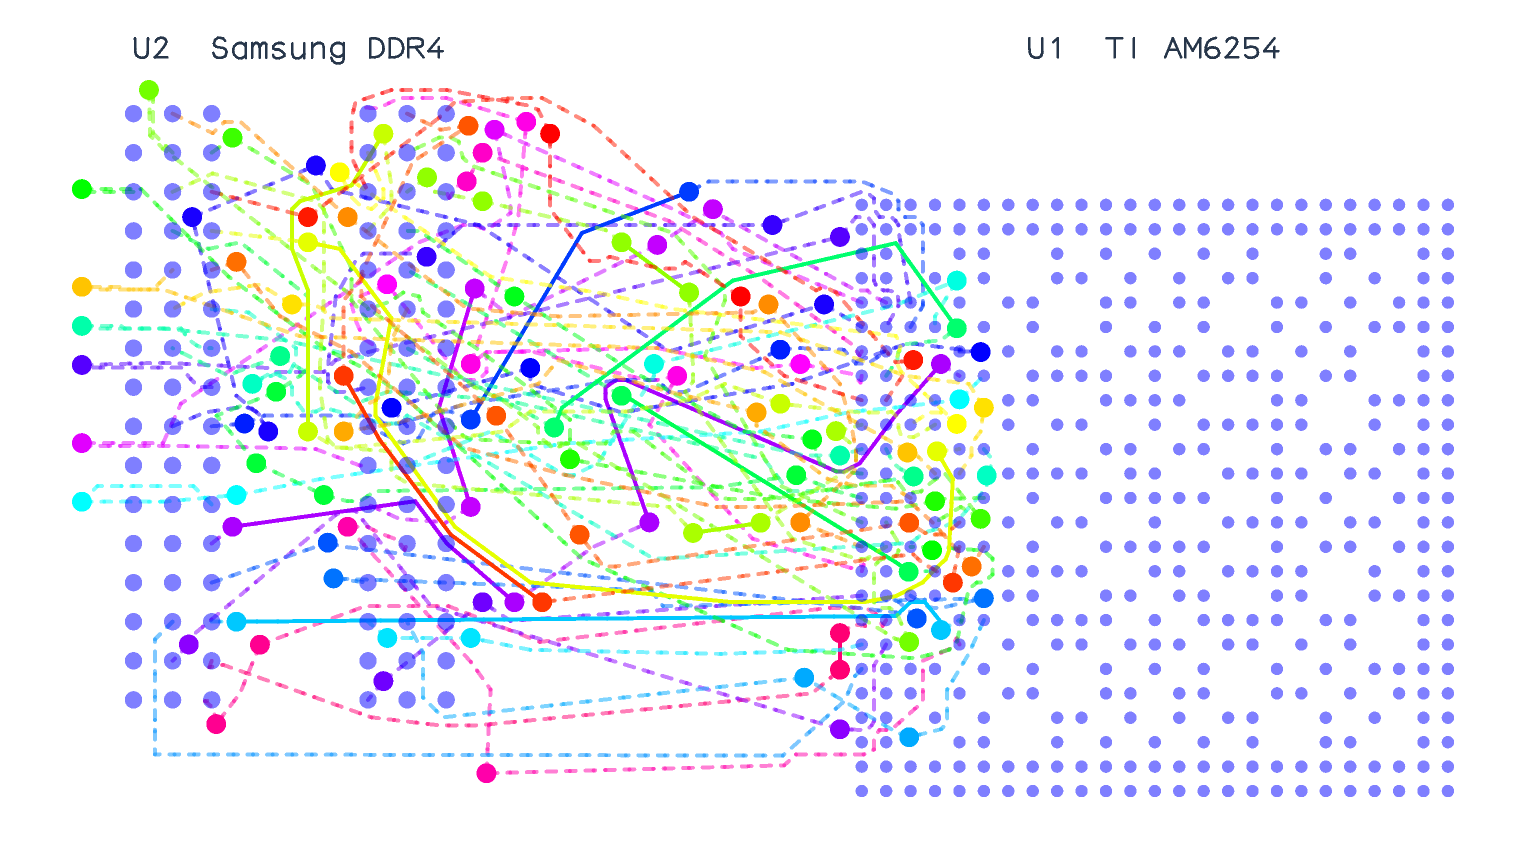
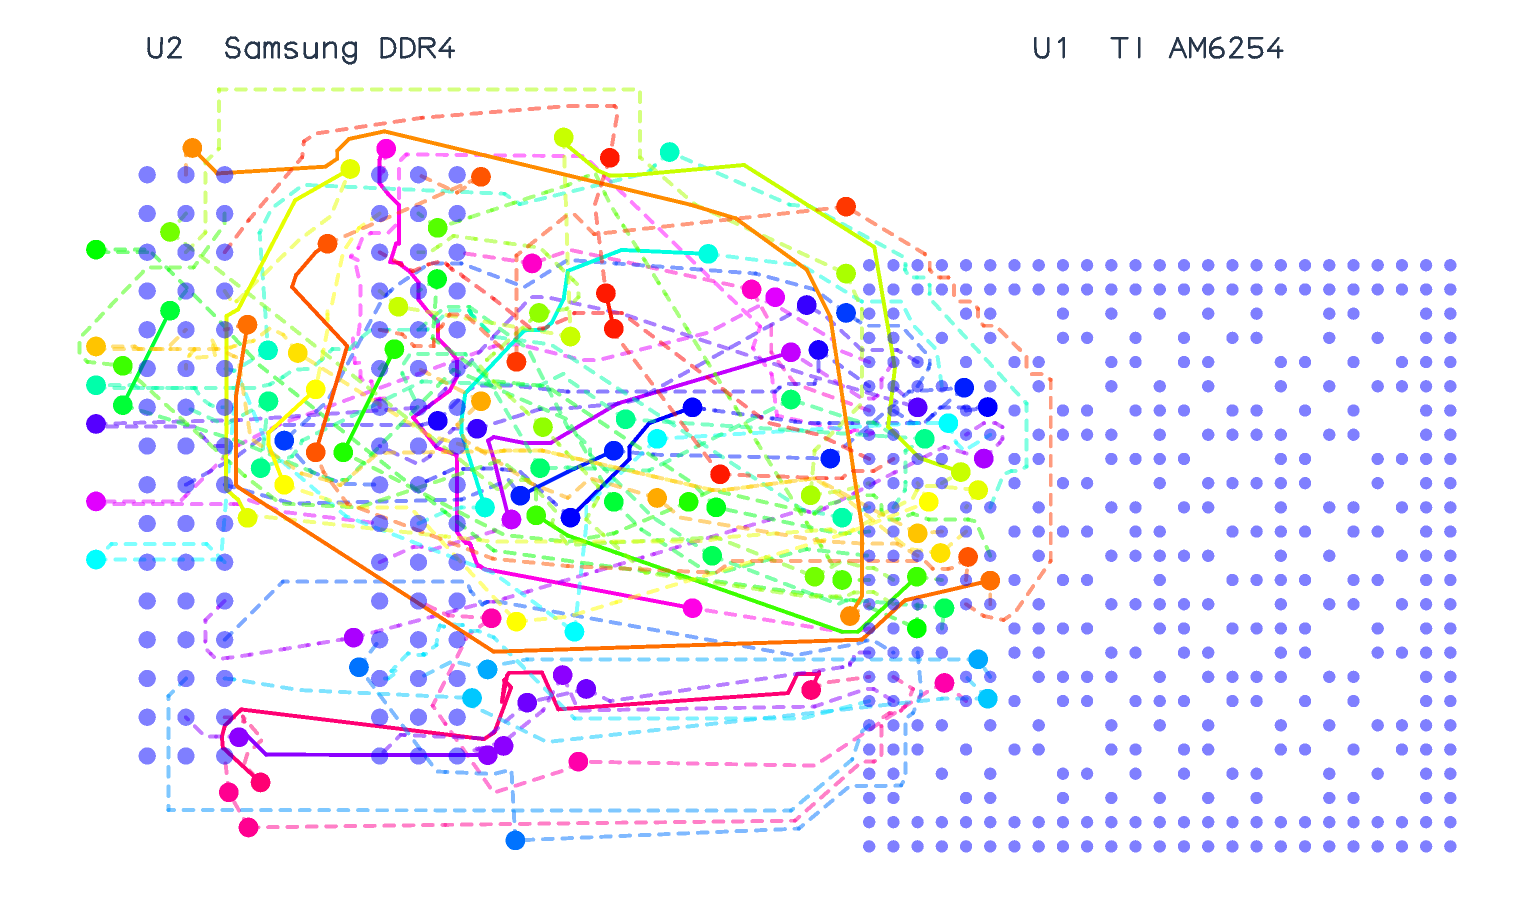
Validate published Pipeline 9 repairs and refresh BeaglePlay snapshots

Changed region(s): [[0.0312, 0.0305, 0.9688, 0.9449], [0.7188, 0.0305, 0.8438, 0.0914], [0.6562, 0.0305, 0.6875, 0.061]]

diff --git a/lib/autorouter-pipelines/AutoroutingPipeline9_PreloadedTraceGraph/Pipeline9JointDrcRepairSolver.ts b/lib/autorouter-pipelines/AutoroutingPipeline9_PreloadedTraceGraph/Pipeline9JointDrcRepairSolver.ts
@@ -45,6 +45,7 @@ import {
   convertPreloadedTraceToHdRoutes,
 } from "./convertPreloadedTraceToHdRoutes"
 import { filterPipeline9DrcErrorsAgainstBaseline } from "./filterPipeline9DrcErrorsAgainstBaseline"
+import { isPipeline9DrcPriorityImprovement } from "./isPipeline9DrcPriorityImprovement"
 import { getPipeline9ClearanceMarginErrors } from "./getPipeline9ClearanceMarginErrors"
 import { getPipeline9PreloadedTraceIdsInInitialDrcRegions } from "./getPipeline9PreloadedTraceIdsInInitialDrcRegions"
 import { getPipeline9PreloadedViaPairTraceGroups } from "./getPipeline9PreloadedViaPairTraceGroups"
@@ -706,6 +707,7 @@ export class Pipeline9JointDrcRepairSolver extends BaseSolver {
   private initialBoundedRegionalRepairStartedAt?: number
   private initialBoundedRepairCandidate?: HighDensityRoute[]
   private readonly prioritizeConflictedRoutes: boolean
+  private readonly outputReferenceDrcEvaluator?: DrcEvaluator
   readonly pipelineDef = [
     {
       solverName: "clearanceProjectionSolver",
@@ -1710,14 +1712,21 @@ export class Pipeline9JointDrcRepairSolver extends BaseSolver {
     drcEvaluator.inputMode = "routes-only"
     this.drcEvaluator = drcEvaluator
 
-    const referenceDrcGuard = canValidatePipeline9ReferenceCopper({
+    const referenceCopper = {
       originalSrj: params.originalSrj,
       connections: params.srjWithPointPairs.connections,
       hasNativePreloadedTraces,
-      referenceCircuitJson: baselineDrc.circuitJson,
-    })
-      ? createPipeline9ReferenceDrcGuard(cachedReferenceDrcEvaluator)
-      : undefined
+    }
+    const guardHandoff = canValidatePipeline9ReferenceCopper(referenceCopper)
+    if (
+      !guardHandoff &&
+      canValidatePipeline9ReferenceCopper({
+        ...referenceCopper,
+        referenceCircuitJson: baselineDrc.circuitJson,
+      })
+    ) {
+      this.outputReferenceDrcEvaluator = cachedReferenceDrcEvaluator
+    }
 
     this.exactRepairParams = {
       srj: extendedSrjWithPointPairs as RepairSimpleRouteJson,
@@ -1731,7 +1740,9 @@ export class Pipeline9JointDrcRepairSolver extends BaseSolver {
       effort: params.effort,
       viaHoleDiameter: params.defaultViaHoleDiameter,
       drcEvaluator,
-      referenceDrcEvaluator: referenceDrcGuard,
+      referenceDrcEvaluator: guardHandoff
+        ? createPipeline9ReferenceDrcGuard(cachedReferenceDrcEvaluator)
+        : undefined,
       viaInPadDrcEvaluator: drcEvaluator,
       maxIterations: maxRepairIterations,
       enableBroadFallback: false,
@@ -1785,16 +1796,13 @@ export class Pipeline9JointDrcRepairSolver extends BaseSolver {
           `Pipeline9 trace contact repair failed: ${solver.error}`,
         )
       if (!solver.solved) return
-      this.combinedOutput = solver.getOutput()
-      if (
-        this.traceContactGuard.getNewContactPairs(this.combinedOutput).length >
-        0
-      ) {
+      const output = solver.getOutput()
+      if (this.traceContactGuard.getNewContactPairs(output).length > 0) {
         throw new Error("Pipeline9 trace contact repair published a new short")
       }
       this.stats = { ...this.stats, ...solver.stats }
       this.activeSubSolver = null
-      this.solved = true
+      this.publishRepairOutput(output)
       return
     }
     const pipelineStepDef = this.pipelineDef[this.currentPipelineStepIndex]
@@ -2287,7 +2295,7 @@ export class Pipeline9JointDrcRepairSolver extends BaseSolver {
       this.combinedOutput,
     )
     if (contacts.length === 0) {
-      this.solved = true
+      this.publishRepairOutput(this.combinedOutput)
       return
     }
     this.traceContactRepairSolver = new TraceContactRepairSolver({
@@ -2298,6 +2306,33 @@ export class Pipeline9JointDrcRepairSolver extends BaseSolver {
     })
     this.activeSubSolver = this.traceContactRepairSolver
     this.MAX_ITERATIONS += this.traceContactRepairSolver.MAX_ITERATIONS
+  }
+
+  private publishRepairOutput(output: HighDensityRoute[]): void {
+    const regionalCandidate = this.initialBoundedRepairCandidate
+    const evaluate = this.outputReferenceDrcEvaluator
+    if (evaluate && regionalCandidate && regionalCandidate !== output) {
+      // Compare the regional seed and the final repair with the same checker
+      // after the search has finished.
+      const outputErrors = getPipeline9DrcErrors(evaluate, output)
+      if (outputErrors.length > 0) {
+        const regionalErrors = getPipeline9DrcErrors(evaluate, regionalCandidate)
+        if (
+          isPipeline9DrcPriorityImprovement({
+            currentErrors: outputErrors,
+            candidateErrors: regionalErrors,
+          }) &&
+          this.traceContactGuard.getNewContactPairs(regionalCandidate).length ===
+            0
+        ) {
+          output = regionalCandidate
+          this.stats.finalDrcIssueCount = regionalErrors.length
+        }
+      }
+      this.stats.referenceDrcValidationCount = this.referenceDrcValidationCount
+    }
+    this.combinedOutput = output
+    this.solved = true
   }
 
   private getCombinedOutput(): HighDensityRoute[] {

diff --git a/tests/features/pipeline9-initial-bounded-repair-keeps-incomplete-candidates-private.test.ts b/tests/features/pipeline9-initial-bounded-repair-keeps-incomplete-candidates-private.test.ts
@@ -3,7 +3,7 @@ import { Pipeline9JointDrcRepairSolver } from "lib/autorouter-pipelines/Autorout
 import { getConnectivityMapFromSimpleRouteJson } from "lib/utils/getConnectivityMapFromSimpleRouteJson"
 import { createBoundedRegionalRepairFixture } from "../fixtures/pipeline9-bounded-regional-repair-fixture"
 
-test("an incomplete initial bounded result seeds exact repair without publishing", (): void => {
+test("an incomplete initial bounded result seeds exact repair and can win the final DRC comparison", (): void => {
   const fixture = createBoundedRegionalRepairFixture()
   const srj = fixture.originalSrj
   const original = structuredClone(fixture.routes)
@@ -38,16 +38,48 @@ test("an incomplete initial bounded result seeds exact repair without publishing
     expect(solver.stats.initialBoundedRegionalRepairAccepted).toBeFalse()
     expect(getResult().routes).not.toEqual(original)
     const exact = solver.exactRepairSolver!
-    const referenceDrc = exact.params.referenceDrcEvaluator
-    expect(referenceDrc).toBeDefined()
-    const before = referenceDrc!({ traces: [], routes: original })
-    const after = referenceDrc!({
+    const regionalCandidate = exact.params.hdRoutes
+    const before = fixture.drcEvaluator({ traces: [], routes: original })
+    const after = fixture.drcEvaluator({
       traces: [],
-      routes: exact.params.hdRoutes,
+      routes: regionalCandidate,
     })
+    const originalErrors = Array.isArray(before) ? before : before.errors
     expect(Array.isArray(after) ? after : after.errors).toHaveLength(0)
-    expect(Array.isArray(before) ? before : before.errors).not.toHaveLength(0)
+    expect(originalErrors).not.toHaveLength(0)
     expect(fixture.routes).toEqual(original)
+
+    // Exercise publication when later repair produces worse copper than the
+    // checked regional seed.
+    const exactStep = spyOn(exact, "step").mockImplementation((): void => {
+      exact.outputHdRoutes = original
+      exact.solved = true
+    })
+    try {
+      while (!solver.boundedRegionalRepairSolver && !solver.failed) {
+        expect(solver.solved).toBeFalse()
+        solver.step()
+      }
+      const bounded = solver.boundedRegionalRepairSolver!
+      const getFinalResult = bounded.getResult.bind(bounded)
+      const finalResult = spyOn(bounded, "getResult")
+      finalResult.mockImplementation(() => ({
+        ...getFinalResult(),
+        routes: original,
+        publishedDrcIssueCount: originalErrors.length,
+      }))
+      try {
+        solver.solve()
+        expect(solver.failed).toBeFalse()
+        expect(solver.solved).toBeTrue()
+        expect(solver.getOutput()).toEqual(regionalCandidate)
+        expect(solver.stats.finalDrcIssueCount).toBe(0)
+      } finally {
+        finalResult.mockRestore()
+      }
+    } finally {
+      exactStep.mockRestore()
+    }
   } finally {
     resultSpy.mockRestore()
   }

diff --git a/lib/autorouter-pipelines/AutoroutingPipeline9_PreloadedTraceGraph/canValidatePipeline9ReferenceCopper.ts b/lib/autorouter-pipelines/AutoroutingPipeline9_PreloadedTraceGraph/canValidatePipeline9ReferenceCopper.ts
@@ -13,13 +13,14 @@ export function canValidatePipeline9ReferenceCopper({
   originalSrj: SimpleRouteJson
   connections: SimpleRouteConnection[]
   hasNativePreloadedTraces: boolean
-  referenceCircuitJson: readonly AnyCircuitElement[]
+  referenceCircuitJson?: readonly AnyCircuitElement[]
 }): boolean {
   const externalGroups = connections.flatMap(
     (connection) => connection.externallyConnectedPointIds ?? [],
   )
   if (!hasNativePreloadedTraces && externalGroups.length === 0) {
     // Fresh routes need physical pad attachments for reference continuity.
+    if (!referenceCircuitJson) return false
     const modeledPortIds = new Set<PcbPortId>()
     const padPortIds = new Set<PcbPortId>()
     for (const element of referenceCircuitJson) {

diff --git a/tests/features/pipeline9-reference-copper-requires-pads.test.ts b/tests/features/pipeline9-reference-copper-requires-pads.test.ts
@@ -11,6 +11,7 @@ test("reference DRC requires modeled ports and pads for fresh route terminals", 
     hasNativePreloadedTraces: false,
   }
   const referenceCircuitJson = convertToCircuitJson(originalSrj, [])
+  expect(canValidatePipeline9ReferenceCopper(context)).toBeFalse()
   expect(
     canValidatePipeline9ReferenceCopper({ ...context, referenceCircuitJson }),
   ).toBeTrue()

diff --git a/fixtures/bug-reports/beagleplay-am6254-ddr4/PROVENANCE.md b/fixtures/bug-reports/beagleplay-am6254-ddr4/PROVENANCE.md
@@ -47,20 +47,23 @@ bun scripts/run-sample.ts --pipeline 9 --effort 1 \
   --srj-path fixtures/bug-reports/beagleplay-am6254-ddr4/input.srj.json
 ```
 
-## Baseline snapshots
+## Routing snapshots
 
-Pipeline 9 on autorouter `0.0.1117` (`dd3383c`), Bun `1.3.14`, effort 1,
-and no cache reached joint clearance repair at about 279 seconds. A longer
-run exported all 51 traces in 333 seconds. Rechecking that output with the
-native pad identities gives one bottom-layer clearance violation between
-`DDR_PARITY` and `DDR_A6` at U1 (0.037 mm spacing against a 0.081 mm
-requirement). The original count included 102 false endpoint warnings from
-the earlier fixture's missing pad records. Trace colors identify nets across
-all eight overlaid layers.
+The routed snapshot shows the final Pipeline 9 export with the joint repair
+publication check, based on autorouter `0.0.1124` (`d88899c`). At effort 1
+with Bun `1.3.14` and the cache disabled, it exported 51 connected traces
+and 114 vias. Both the reference and relaxed DRC checks report zero findings
+using all 521 pads, 102 ports, and the fixture's 0.081 mm clearance.
+
+The `d88899c` base run left 0.032 mm between `DDR_PARITY` and `DDR_A7` at
+U1. The routed snapshot measures 0.954 mm for that pair. The original
+`0.0.1117` repro left 0.037 mm between `DDR_PARITY` and `DDR_A6` at U1.
+Its report included 102 false endpoint warnings caused by missing pad
+records. Trace colors identify nets across all eight overlaid layers.
 
 ![AM6254 and Samsung DDR4 before routing](images/unrouted.png)
 
-![AM6254 and Samsung DDR4 with the exported traces](images/routed.png)
+![AM6254 and Samsung DDR4 with 51 routed nets and zero DRC findings](images/routed.png)
 
 [layout]: https://github.com/beagleboard/beagleplay/blob/7a59a98ae27dc4fd9e2bd8975ff90cdb44a366ea/Design/20230215_beagleplayv022_10.brd
 [bom]: https://github.com/beagleboard/beagleplay/blob/7a59a98ae27dc4fd9e2bd8975ff90cdb44a366ea/BeaglePlay_bom.csv
